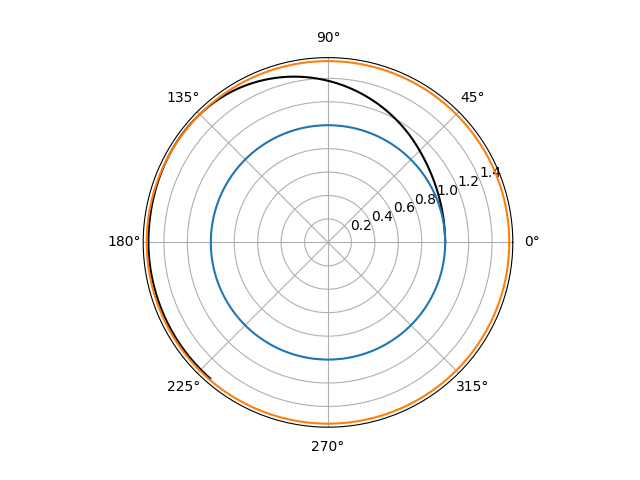
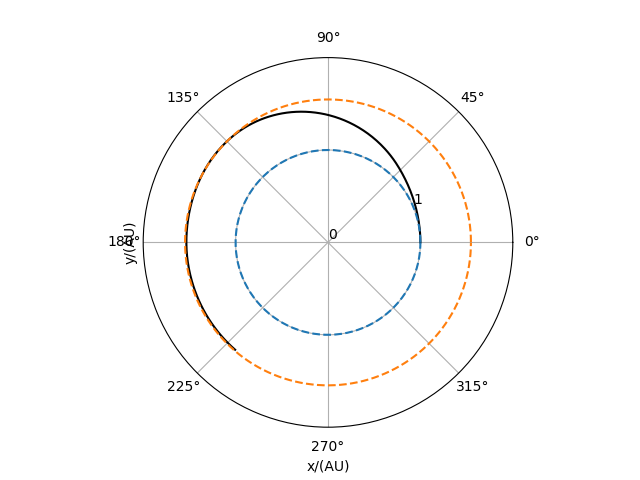
修正一点画图错误，增加几个图像显示

diff --git a/5 SolarSail/main_a3c.py b/5 SolarSail/main_a3c.py
@@ -1,7 +1,7 @@
 import numpy as np
 import matplotlib
 
-matplotlib.use('Agg')
+# matplotlib.use('Agg')
 import matplotlib.pyplot as plt
 from SolarSail import Env
 import A3C
@@ -24,7 +24,7 @@ if __name__ == '__main__':
                     LR_A=0.00002,
                     LR_C=0.0001,
                     train=False)
-    number = 1  # 调试参数编号
+    number = 2  # 调试参数编号
     RL = A3C.A3C(para)
     RL.run()  # 训练或者载入数据
     actions_best = []
@@ -63,38 +63,23 @@ if __name__ == '__main__':
     plt.ylabel('y/(AU)')
     plt.ylim((0, 2))
     plt.yticks(np.arange(2))
-    # plt.plot(phi, r, 'y')
-    plt.savefig(os.path.join(path0, 'A3C_effect' + str(number) + '.png'))
-    # plt.figure(2)
-    # plt.subplot(111)
-    # # plt.plot(actions, 'y')
-    # plt.plot(actions_plot, 'k')
-    # plt.savefig(os.path.join(path0, 'A3C_action' + str(number) + '.png'))
-    # print('number:', number)
-    # print(para.best_action)
-    # 画出测试
-    # phi = []
-    # r = []
-    # env = Env()
-    # env.times = 1
-    # t = 0
-    # actions = []
-    # state_now = env.reset()
-    # r.append(state_now[0])
-    # phi.append(state_now[1])
-    # epr = 0
-    # while True:
-    #     action = RL.choose_action(state_now)
-    #     actions.append(action)
-    #     state_next, reward, done, info = env.step(RL.choose_action(state_now))
-    #     t = info['t']
-    #     epr += reward
-    #     state_now = state_next
-    #     r.append(state_now[0])
-    #     phi.append(state_now[1])
-    #     if done:
-    #         break
-    # 显示
-    # print('测试轨道参数是：', state_now)
-    # print('测试轨道奖励是：', epr)
-    # print('测试轨道天数是：', t)
+    # plt.savefig(os.path.join(path0, 'A3C_effect' + str(number) + '.png'))
+
+    plt.figure(2)
+    plt.plot(info['states'][:, 0], 'm')
+    plt.plot(env.constant['r_f'] * np.ones(len(info['states'][:, 0])))
+    plt.ylim(0.5, 2)
+    plt.title('r')
+
+    plt.figure(3)
+    plt.plot(info['states'][:, 2], 'm')
+    plt.plot(env.constant['u_f'] * np.ones(len(info['states'][:, 0])))
+    plt.ylim(-0.1, 0.2)
+    plt.title('u')
+
+    plt.figure(4)
+    plt.plot(info['states'][:, 3], 'm')
+    plt.plot(env.constant['v_f'] * np.ones(len(info['states'][:, 0])))
+    plt.ylim(0.5, 1.5)
+    plt.title('v')
+    plt.show()

diff --git a/5 SolarSail/SolarSail.py b/5 SolarSail/SolarSail.py
@@ -35,7 +35,7 @@ class Env:
                                 self.constant['u0'], self.constant['v0']])  # [r phi u v]
         self.state = np.array([self.constant['r0'],
                                self.constant['u0'], self.constant['v0']])  # [r u v]
-        self.info = {'states': np.array(self.state.copy()), 'target': [self.constant['r_f'], self.constant['phi_f'],
+        self.info = {'states': np.array(self._state.copy()), 'target': [self.constant['r_f'], self.constant['phi_f'],
                                                         self.constant['u_f'], self.constant['v_f']]}
         return self.state.copy()
 
@@ -54,7 +54,7 @@ class Env:
             # 下一个状态
             self._state += self.delta_t * np.array([r_dot, phi_dot, u_dot, v_dot])  # [r,phi,u,v]
             self.state += self.delta_t * np.array([r_dot, u_dot, v_dot])  # [r,u,v]
-            self.info['states'] = np.vstack((self.info['states'], self.state))
+            self.info['states'] = np.vstack((self.info['states'], self._state))
             # 判断是否结束
             self.t += self.delta_d  # 单位是天
             reward -= (np.abs(self._state[0] - self.constant['r_f'])) / 5  # 考虑时间和距离
